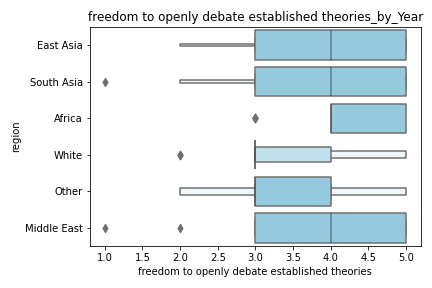
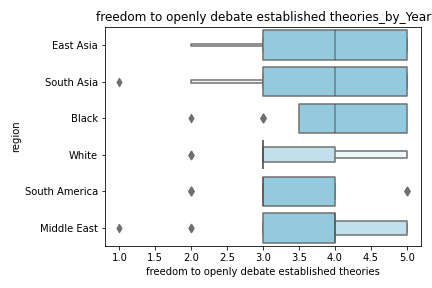
update

diff --git a/analysis.py b/analysis.py
@@ -103,19 +103,19 @@ print(fa.get_eigenvalues())
 # Set up the primary independent variable - regions
 
 regions = {
-    'East Asia': {'East Asia': 1, 'South Asia': 0, 'Middle East': 0, 'White': 0, 'Africa': 0, 'Other': 0},
-    'South Asia': {'East Asia': 0, 'South Asia': 1, 'Middle East': 0, 'White': 0, 'Africa': 0, 'Other': 0},
-    'Middle East': {'East Asia': 0, 'South Asia': 0, 'Middle East': 1, 'White': 0, 'Africa': 0, 'Other': 0},
-    'White': {'East Asia': 0, 'South Asia': 0, 'Middle East': 0, 'White': 1, 'Africa': 0, 'Other': 0},
-    'Africa': {'East Asia': 0, 'South Asia': 0, 'Middle East': 0, 'White': 0, 'Africa': 1, 'Other': 0},
-    'Other': {'East Asia': 0, 'South Asia': 0, 'Middle East': 0, 'White': 0, 'Africa': 0, 'Other': 1},
+    'East Asia': {'East Asia': 1, 'South Asia': 0, 'Middle East': 0, 'White': 0, 'Africa': 0, 'South America': 0},
+    'South Asia': {'East Asia': 0, 'South Asia': 1, 'Middle East': 0, 'White': 0, 'Africa': 0, 'South America': 0},
+    'Middle East': {'East Asia': 0, 'South Asia': 0, 'Middle East': 1, 'White': 0, 'Africa': 0, 'South America': 0},
+    'White': {'East Asia': 0, 'South Asia': 0, 'Middle East': 0, 'White': 1, 'Africa': 0, 'South America': 0},
+    'Black': {'East Asia': 0, 'South Asia': 0, 'Middle East': 0, 'White': 0, 'Africa': 1, 'South America': 0},
+    'South America': {'East Asia': 0, 'South Asia': 0, 'Middle East': 0, 'White': 0, 'Africa': 0, 'South America': 1},
 }
 
 for region, values in regions.items():
     variables[region] = variables['region'].replace(values)
     
 # Count the number of values equal to 1 in each column
-counts = variables[['East Asia', 'South Asia', 'Middle East', 'Africa', 'White', 'Other']].eq(1).sum()
+counts = variables[['East Asia', 'South Asia', 'Middle East', 'White', 'Black','South America']].eq(1).sum()
 
 print("Number of students in each region:")
 print(counts)
@@ -169,7 +169,7 @@ for discipline, values in disciplines.items():
 # Model 1 (reference: white)
 
 dep_var  = 'att_rates'
-ind_vars = ['South Asia', 'East Asia', 'Middle East','Africa','Other']
+ind_vars = ['South Asia', 'East Asia', 'Middle East','Black','South America']
 
 Y = variables[dep_var]
 
@@ -187,7 +187,7 @@ print( results.summary() )
 # Model 2 (reference: <30)
 
 dep_var  = 'att_rates'
-ind_vars = ['South Asia', 'East Asia', 'Middle East','Africa','Other','31-35', '36-40', '41-45']
+ind_vars = ['South Asia', 'East Asia', 'Middle East','Black','South America','31-35', '36-40', '41-45']
 
 Y = variables[dep_var]
 
@@ -211,7 +211,7 @@ print(betas)
 # Model 3 (reference: male)
 
 dep_var  = 'att_rates'
-ind_vars = ['South Asia', 'East Asia', 'Middle East','Africa','Other','31-35', '36-40', '41-45', 'female', 'na']
+ind_vars = ['South Asia', 'East Asia', 'Middle East','Black','South America','31-35', '36-40', '41-45', 'female', 'na']
 
 Y = variables[dep_var]
 
@@ -235,7 +235,7 @@ print(betas)
 # Model 4 (reference: Computer Science)
 
 dep_var  = 'att_rates'
-ind_vars = ['South Asia', 'East Asia', 'Middle East','Africa','Other','31-35', '36-40', '41-45', 'female', 'na', 'phd', 'Life Sciences', 'Physical Sciences', 'Engineering', 'Mathematics', 'Other']
+ind_vars = ['South Asia', 'East Asia', 'Middle East','Black','South America','31-35', '36-40', '41-45', 'female', 'na', 'phd', 'Life Sciences', 'Physical Sciences', 'Engineering', 'Mathematics', 'Other']
 
 Y = variables[dep_var]
 
